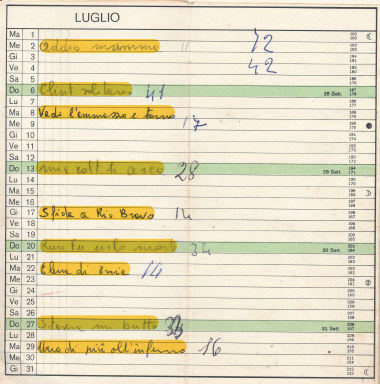
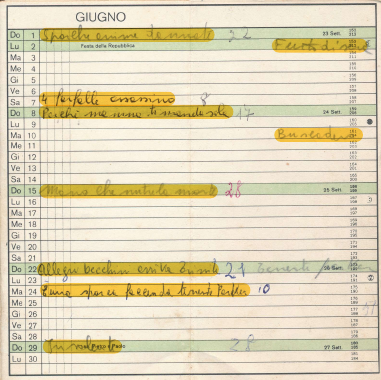
update calendario 1975

diff --git a/content/agende/1975-01-01-calendario-proiezioni-1975/index.md b/content/agende/1975-01-01-calendario-proiezioni-1975/index.md
@@ -5,10 +5,9 @@ date: '1975-01-01'
 slug: calendario-proiezioni-1975
 categories:
   - Calendario
-  - Proiezioni
 tags:
-  - AgendaCinematografica
   - Database
+  - Proiezioni
 ---
 {{< image-gallery gallery_dir="/images/1975_01_01_calendario_proiezioni" >}}
 
@@ -34,7 +33,7 @@ tags:
 |1975-02-02         |[Il massacratore cinese](https://www.imdb.com/title/tt0186112/)|
 |1975-02-06         |[Storie scellerate](https://www.imdb.com/title/tt0205430/)|
 |1975-02-07         |[Un apprezzato professionista di sicuro avvenire](https://www.imdb.com/title/tt0066778/)|
-|1975-02-09         |[Killer Kid](https://www.imdb.com/title/tt0269443/)     |
+|1975-02-09         |[Sparate a vista su Killer Kid](https://www.imdb.com/title/tt0059134/)|
 |1975-02-11         |[La morte arriva con la valigia bianca](https://www.imdb.com/title/tt0068698/)|
 |1975-02-16         |[I fantastici piccoli supermen](https://www.imdb.com/title/tt0078910/)|
 |1975-02-18         |[Il piacere e l'amore](https://www.imdb.com/title/tt0058533/)|
@@ -82,12 +81,13 @@ tags:
 |1975-06-02         |[Furto di sera bel colpo si spera](https://www.imdb.com/title/tt0175633/)|
 |1975-06-07         |[Quattro farfalle per un assassino](https://www.imdb.com/title/tt0069318/)|
 |1975-06-08         |[Perché mammà ti manda solo?](https://www.imdb.com/title/tt0068475/)|
+|1975-06-11         |[L'ultimo buscadero](https://www.imdb.com/title/tt0068786/)|
 |1975-06-15         |[La mano che nutre la morte](https://www.imdb.com/title/tt0070368/)|
 |1975-06-22         |[Allegri becchini... arriva Trinità](https://www.imdb.com/title/tt0244384/)|
 |1975-06-24         |[È una sporca faccenda, tenente Parker!](https://www.imdb.com/title/tt0071824/)|
 |1975-06-29         |[L'insolente - Il più crudele tra quelli della mala](https://www.imdb.com/title/tt0068743/)|
 |1975-07-02         |[Addio mamma](https://www.imdb.com/title/tt0061330/)    |
-|1975-07-06         |[Clint il solitario](https://www.imdb.com/title/tt0059042/)|
+|1975-07-06         |[Il ritorno di Clint il solitario](https://www.imdb.com/title/tt0069184/)|
 |1975-07-08         |[Vado... l'ammazzo e torno](https://www.imdb.com/title/tt0062429/)|
 |1975-07-13         |[La mia colt ti cerca... 4 ceri ti attendono](https://www.imdb.com/title/tt0066930/)|
 |1975-07-17         |[Sfida a Rio Bravo](https://www.imdb.com/title/tt0059098/)|
@@ -136,7 +136,7 @@ tags:
 |1975-10-21         |[La ragazzina](https://www.imdb.com/title/tt0072062/)   |
 |1975-10-23         |[Cina violenza e furore](https://www.imdb.com/title/tt0121122/)|
 |1975-10-24         |[Cleopatra Jones: licenza di uccidere](https://www.imdb.com/title/tt0069890/)|
-|1975-10-26         |[La mano vendicatrice](https://www.imdb.com/title/tt0047411/)|
+|1975-10-26         |[La mano vendicatrice continua ad uccidere](https://www.imdb.com/title/tt0978752/)|
 |1975-10-28         |[Ming, ragazzi!](https://www.imdb.com/title/tt0070646/) |
 |1975-10-31         |[Mani sporche sulla città](https://www.imdb.com/title/tt0071259/)|
 |1975-11-01         |[L'ultima neve di primavera](https://www.imdb.com/title/tt0162026/)|
@@ -150,9 +150,11 @@ tags:
 |1975-11-16         |[Ehi amigo! Tocca a te morire](https://www.imdb.com/title/tt0316759/)|
 |1975-11-20         |[Decameron proibitissimo](https://www.imdb.com/title/tt0068463/)|
 |1975-11-21         |[Le svedesi si confessano e...](https://www.imdb.com/title/tt0062619/)|
+|1975-11-23         |[Tarzan - I segreti della jungla](https://www.imdb.com/title/tt0069345/)|
 |1975-11-28         |[La pendolare](https://www.imdb.com/title/tt0068536/)   |
 |1975-11-30         |[Kung fu, l'arte di uccidere](https://www.imdb.com/title/tt0068874/)|
 |1975-12-02         |[Scorpio](https://www.imdb.com/title/tt0070653/)        |
+|1975-12-04         |[Afyon oppio](https://www.imdb.com/title/tt0068179/)    |
 |1975-12-05         |[La polizia è al servizio del cittadino?](https://www.imdb.com/title/tt0070553/)|
 |1975-12-07         |[I leoni di Pietroburgo](https://www.imdb.com/title/tt0067340/)|
 |1975-12-08         |[Blind Man](https://www.imdb.com/title/tt0066844/)      |
@@ -168,3 +170,4 @@ tags:
 |1975-12-26         |[Boon il saccheggiatore](https://www.imdb.com/title/tt0064886/)|
 |1975-12-28         |[Agente 007 - L'uomo dalla pistola d'oro](https://www.imdb.com/title/tt0071807/)|
 |1975-12-30         |[Preparati la bara!](https://www.imdb.com/title/tt0062151/)|
+|1976-01-01         |[La polizia ringrazia](https://www.imdb.com/title/tt0069109/)|
